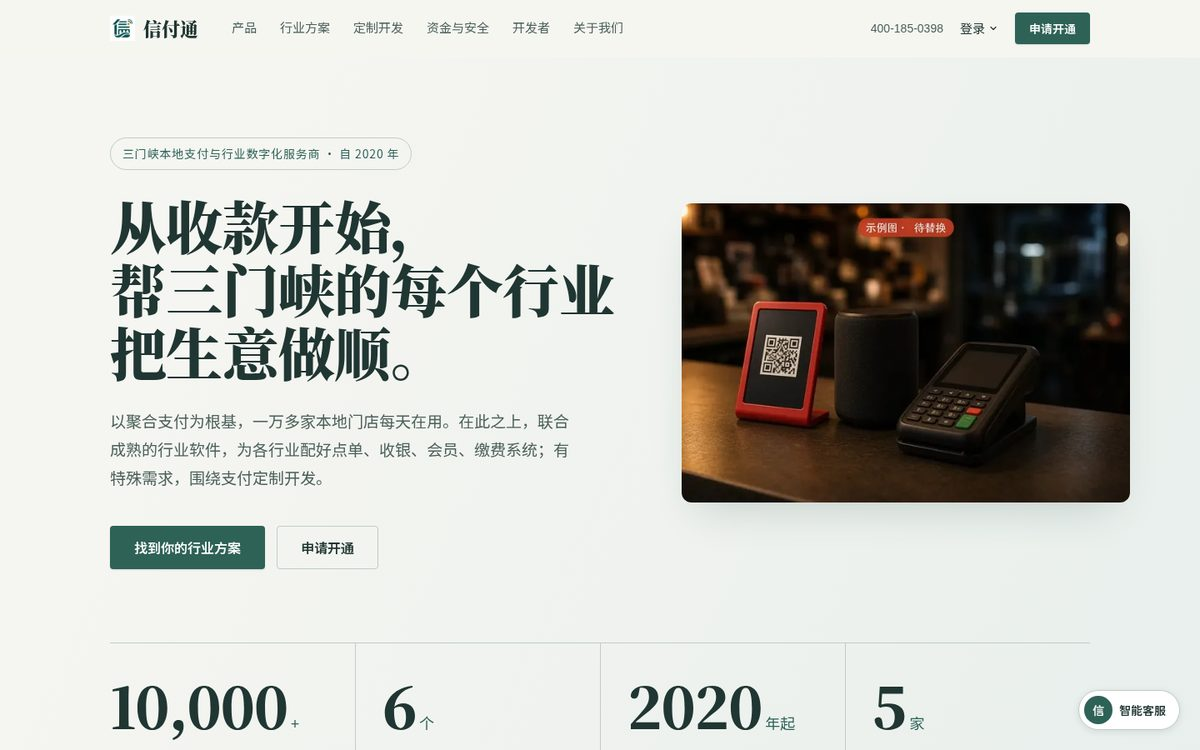
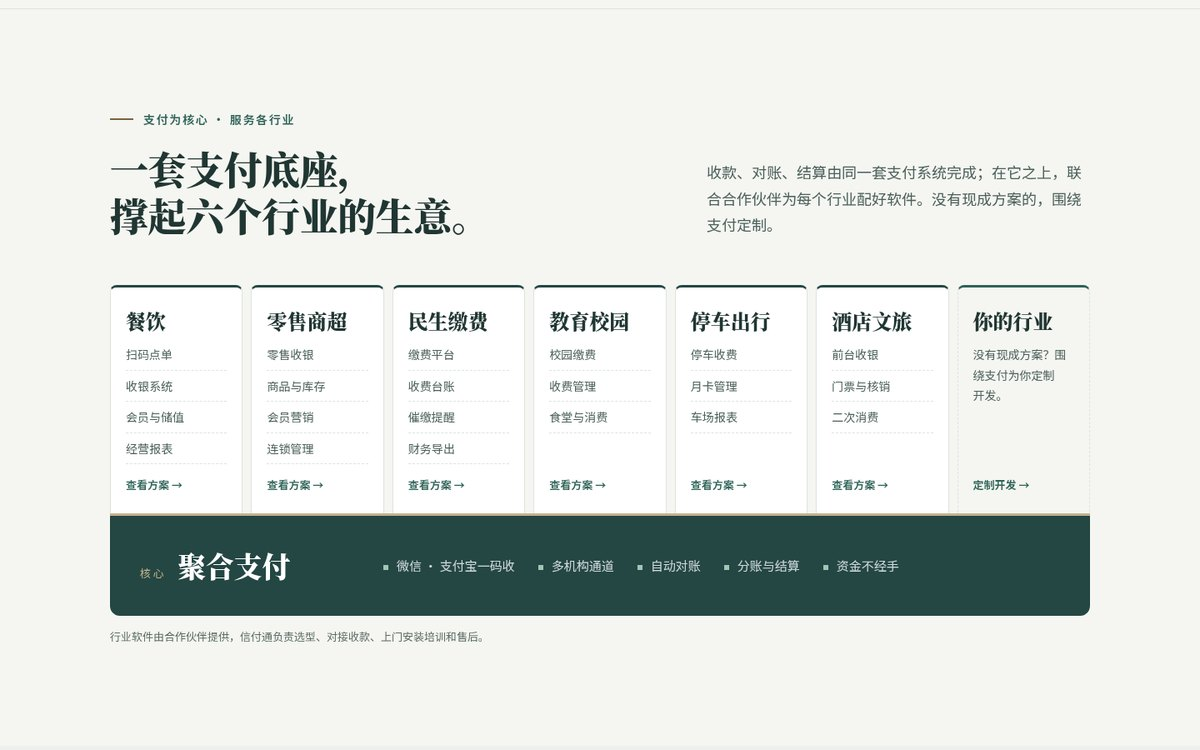
polish r1: photo slot with fallback, dedupe status, hero peek, trust legibility, header CTA, bento flow, code highlight fix, ciftopay recrop

diff --git a/site.css b/site.css
@@ -27,7 +27,7 @@
   --border-strong: rgba(255, 255, 255, .16);
   --text: #f2f4f8;
   --text-2: #a9b1c0;
-  --text-3: #6f7889;
+  --text-3: #858ea0;
   --grid-line: rgba(255, 255, 255, .045);
 
   --c1: #3be8ff;           /* 电光青 */
@@ -72,7 +72,7 @@
   --border-strong: rgba(10, 14, 30, .18);
   --text: #0a0c12;
   --text-2: #444c5c;
-  --text-3: #737b8c;
+  --text-3: #626a7b;
   --grid-line: rgba(10, 14, 30, .055);
   --c1: #0891b2;
   --c2: #6d4aff;
@@ -200,6 +200,7 @@ button { font: inherit; color: inherit; }
 .nav-link-cta { color: var(--accent); font-weight: 600; }
 
 .nav-tools { margin-left: auto; display: flex; align-items: center; gap: 8px; }
+.nav-tools .header-cta { display: none; min-height: 40px; padding: 0 16px; font-size: 13.5px; }
 .status-chip {
   display: none; align-items: center; gap: 8px;
   padding: 6px 12px; border-radius: var(--radius-pill);
@@ -244,7 +245,11 @@ button { font: inherit; color: inherit; }
     transform: none; opacity: 1; visibility: visible;
   }
   .nav-link { padding: 6px 14px; font-size: 13.5px; border-radius: var(--radius-pill); }
-  .nav-link-cta { color: var(--text); background: var(--surface-2); }
+  .nav-bar { display: grid; grid-template-columns: minmax(0, 1fr) auto minmax(0, 1fr); }
+  .nav { margin-left: 0; }
+  .nav-tools { margin-left: 0; justify-self: end; }
+  .nav-link-cta { display: none; }
+  .nav-tools .header-cta { display: inline-flex; }
   .menu-btn { display: none; }
 }
 
@@ -275,19 +280,19 @@ button { font: inherit; color: inherit; }
 
 /* ---------- Section system ---------- */
 .anchor-alias { position: absolute; }
-.section { position: relative; padding: 88px 0; }
+.section { position: relative; padding: 76px 0; }
 .section-alt { background: transparent; }
 .section + .section::before, .footer::before {
   content: ""; position: absolute; top: 0; left: 50%; width: min(var(--container), 100% - 40px); height: 1px; transform: translateX(-50%);
   background: linear-gradient(90deg, transparent, var(--border-strong) 20%, var(--border-strong) 80%, transparent);
 }
-@media (min-width: 1024px) { .section { padding: 128px 0; } }
+@media (min-width: 1024px) { .section { padding: 108px 0; } }
 
 .section-head { margin: 0 0 44px; display: grid; gap: 14px; }
 @media (min-width: 900px) {
   .section-head { grid-template-columns: minmax(0, 1fr) minmax(0, 380px); align-items: end; column-gap: 48px; margin-bottom: 60px; }
   .section-head .section-kicker { grid-column: 1 / -1; }
-  .section-head .section-desc { justify-self: end; text-align: right; }
+  .section-head .section-desc { justify-self: end; max-width: 340px; padding-bottom: 8px; }
 }
 .section-kicker {
   display: inline-flex; align-items: center; gap: 10px;
@@ -379,10 +384,39 @@ button { font: inherit; color: inherit; }
 .hero-cta .btn { flex: 1 1 100%; }
 @media (min-width: 480px) { .hero-cta .btn { flex: 0 0 auto; } .hero-lead { font-size: 17px; } }
 @media (min-width: 1024px) {
-  .hero { padding: 72px 0 120px; min-height: calc(100vh - var(--header-h)); display: flex; align-items: center; }
+  .hero { padding: 64px 0 28px; min-height: min(calc(100vh - var(--header-h)), 900px); display: flex; flex-direction: column; justify-content: center; }
   .hero > .container { width: 100%; }
   .hero-grid { grid-template-columns: minmax(0, 1.42fr) minmax(0, .78fr); gap: 64px; }
 }
+
+/* 首屏底部：代表作品速览 */
+.hero-peek-wrap { display: none; }
+@media (min-width: 1024px) {
+  .hero-peek-wrap { display: block; margin-top: 48px; }
+  .hero-peek { display: flex; align-items: center; justify-content: space-between; gap: 24px; padding-top: 20px; border-top: 1px solid var(--border); }
+}
+.scroll-cue { display: inline-flex; align-items: center; gap: 14px; font-size: 12px; letter-spacing: .1em; text-transform: uppercase; color: var(--text-3); transition: color .2s; }
+.scroll-cue:hover { color: var(--text); }
+.cue-line { position: relative; width: 1px; height: 34px; background: var(--border-strong); overflow: hidden; }
+.cue-line::after { content: ""; position: absolute; left: 0; top: -40%; width: 1px; height: 40%; background: linear-gradient(var(--c1), var(--c2)); animation: cue 2.2s var(--ease) infinite; }
+@keyframes cue { to { top: 100%; } }
+.peek-list { display: flex; gap: 12px; }
+.cue-txt { display: grid; gap: 4px; }
+.cue-txt .mono { font-size: 11.5px; letter-spacing: .12em; color: var(--accent); }
+.cue-txt > span:last-child { font-size: 13.5px; letter-spacing: 0; text-transform: none; color: var(--text-2); }
+.peek {
+  display: flex; align-items: center; gap: 14px; min-width: 280px; padding: 8px 10px 8px 8px; border-radius: 14px;
+  background: var(--surface); border: 1px solid var(--border);
+  -webkit-backdrop-filter: blur(12px); backdrop-filter: blur(12px);
+  transition: border-color .25s var(--ease), transform .25s var(--ease), background-color .25s;
+}
+.peek:hover { border-color: var(--accent-ring); transform: translateY(-2px); }
+.peek img { width: 76px; height: 48px; border-radius: 8px; object-fit: cover; object-position: left top; border: 1px solid var(--border); flex-shrink: 0; }
+.peek-txt { display: grid; gap: 3px; min-width: 0; }
+.peek-txt b { font-size: 14px; font-weight: 750; color: var(--text); line-height: 1.3; }
+.peek-txt small { display: inline-flex; align-items: center; gap: 7px; font-size: 11.5px; color: var(--text-3); }
+.peek-go { margin-left: auto; width: 30px; height: 30px; border-radius: 50%; display: grid; place-items: center; font-size: 13px; color: var(--text-2); border: 1px solid var(--border); transition: color .2s, border-color .2s; }
+.peek:hover .peek-go { color: var(--accent); border-color: var(--accent-ring); }
 
 /* 名片 */
 .profile-card {
@@ -397,37 +431,51 @@ button { font: inherit; color: inherit; }
   content: ""; position: absolute; top: -1px; left: 16%; right: 16%; height: 1px;
   background: linear-gradient(90deg, transparent, var(--c1), var(--c2), transparent); opacity: .8;
 }
-.profile-top { display: flex; align-items: center; gap: 16px; }
+.profile-top { display: flex; align-items: center; gap: 18px; }
+/* 头像：assets/avatar.jpg 存在时显示照片，否则显示占位 */
 .avatar {
-  position: relative; width: 68px; height: 68px; border-radius: 20px; flex-shrink: 0;
-  display: grid; place-items: center;
-  font-size: 30px; font-weight: 850; color: var(--text);
-  background: radial-gradient(120% 120% at 20% 0%, rgba(95,227,255,.28), transparent 55%), radial-gradient(120% 120% at 100% 100%, rgba(139,108,255,.35), transparent 55%), var(--surface-solid);
-  border: 1px solid var(--border-strong);
+  position: relative; flex-shrink: 0; width: 96px; height: 96px; border-radius: 50%; padding: 3px;
+  background: conic-gradient(from 210deg, var(--c1), var(--c2), #6aa8ff, var(--c1));
+  box-shadow: 0 0 0 6px var(--accent-soft), 0 18px 40px -16px rgba(110, 140, 255, .55);
 }
+.avatar::after { /* 在线状态点 */
+  content: ""; position: absolute; right: 5px; bottom: 5px; width: 14px; height: 14px; border-radius: 50%;
+  background: var(--ok); border: 3px solid var(--surface-solid); z-index: 2;
+}
+.avatar-fallback, .avatar-img { position: absolute; inset: 3px; width: calc(100% - 6px); height: calc(100% - 6px); border-radius: 50%; }
+.avatar-fallback {
+  display: grid; place-items: center; overflow: hidden;
+  background: radial-gradient(120% 100% at 30% 0%, rgba(95, 227, 255, .26), transparent 60%), radial-gradient(120% 120% at 100% 100%, rgba(139, 108, 255, .34), transparent 60%), var(--surface-solid);
+}
+.avatar-sil { position: absolute; left: 12%; right: 12%; bottom: -6%; width: 76%; height: auto; fill: currentColor; color: var(--text); opacity: .1; }
+.avatar-initial { position: relative; font-size: 36px; font-weight: 850; line-height: 1; color: var(--text); letter-spacing: 0; }
+.avatar-img { object-fit: cover; object-position: center 30%; background: var(--surface-solid); }
 .profile-id { min-width: 0; }
-.profile-name { font-size: 20px; font-weight: 800; line-height: 1.3; letter-spacing: -.01em; }
-.profile-en { font-family: var(--font-mono); font-size: 11.5px; font-weight: 500; color: var(--text-3); margin-left: 6px; letter-spacing: .04em; }
-.profile-role { font-size: 13.5px; color: var(--text-2); }
-.profile-loc { font-size: 12.5px; color: var(--text-3); }
-.profile-loc i { color: var(--accent); margin-right: 2px; }
+.profile-name { font-size: 22px; font-weight: 850; line-height: 1.3; letter-spacing: -.015em; }
+.profile-en { display: block; font-family: var(--font-mono); font-size: 12px; font-weight: 500; color: var(--text-3); letter-spacing: .06em; line-height: 1.5; }
+.profile-role { margin-top: 6px; font-size: 14px; font-weight: 600; color: var(--text-2); }
+.profile-loc { margin-top: 2px; font-size: 13px; color: var(--text-3); }
+.profile-loc i { color: var(--accent); margin-right: 3px; }
 
 .trust-list {
-  margin-top: 18px; display: grid; grid-template-columns: repeat(2, minmax(0, 1fr)); gap: 1px;
+  margin-top: 20px; display: grid; grid-template-columns: repeat(3, minmax(0, 1fr)); gap: 1px;
   border-radius: var(--radius); overflow: hidden; background: var(--border); border: 1px solid var(--border);
 }
-.trust-list li { display: flex; flex-direction: column; gap: 2px; padding: 14px 14px 13px; background: var(--surface-solid); min-width: 0; }
+.trust-list li { display: flex; flex-direction: column; gap: 6px; padding: 14px 14px 15px; background: var(--surface-solid); min-width: 0; }
 :root:not([data-theme="light"]) .trust-list li { background: #0b0d12; }
 .trust-val {
-  font-family: var(--font-mono); font-weight: 700; font-size: 30px; line-height: 1.1; letter-spacing: -.04em;
+  font-family: var(--font-mono); font-weight: 700; font-size: 28px; line-height: 1.1; letter-spacing: -.04em;
   background: var(--accent-grad); -webkit-background-clip: text; background-clip: text; color: transparent;
-  font-variant-numeric: tabular-nums;
+  font-variant-numeric: tabular-nums; white-space: nowrap;
 }
-.trust-val small { font-family: var(--font-sans); font-size: 14px; font-weight: 700; letter-spacing: 0; margin-left: 3px; }
-.trust-list li:nth-child(n+3) .trust-val { font-family: var(--font-sans); font-size: 22px; letter-spacing: -.02em; line-height: 1.35; }
-.trust-lbl { min-width: 0; font-size: 12.5px; line-height: 1.5; color: var(--text-3); }
+.trust-val small { font-family: var(--font-sans); font-size: 13px; font-weight: 700; letter-spacing: 0; margin-left: 3px; }
+.trust-list li:nth-child(2) .trust-val, .trust-list li:nth-child(4) .trust-val { font-family: var(--font-sans); font-size: 22px; letter-spacing: -.02em; line-height: 1.27; padding-top: 1px; }
+.trust-lbl { min-width: 0; font-size: 13px; line-height: 1.5; color: var(--text-2); text-wrap: balance; }
+.trust-list li:nth-child(4) { grid-column: 1 / -1; flex-direction: row; align-items: center; gap: 16px; }
+.trust-list li:nth-child(4) .trust-val { flex-shrink: 0; }
+.trust-list li:nth-child(4) .trust-lbl { padding-left: 16px; border-left: 1px solid var(--border); }
 
-.profile-contact { margin-top: 14px; display: grid; gap: 2px; }
+.profile-contact { margin-top: 16px; display: grid; gap: 2px; }
 .profile-contact li { display: flex; align-items: center; justify-content: space-between; gap: 10px; min-width: 0; min-height: 40px; padding: 0 2px 0 6px; border-radius: 10px; transition: background-color .2s; }
 .profile-contact li:hover { background: var(--surface-2); }
 .profile-contact a, .contact-wx { min-width: 0; overflow: hidden; text-overflow: ellipsis; white-space: nowrap; font-weight: 600; font-size: 14px; color: var(--text); }
@@ -561,6 +609,30 @@ button { font: inherit; color: inherit; }
     radial-gradient(70% 120% at 100% 100%, rgba(139,108,255,.1), transparent 60%) padding-box,
     linear-gradient(var(--bg-alt), var(--bg-alt)) padding-box,
     linear-gradient(150deg, var(--border-strong), var(--border) 40%, rgba(139,108,255,.4)) border-box; }
+/* 首个 bento：支付链路示意（复述上面的文字，纯装饰） */
+.svc-flow { display: none; }
+@media (min-width: 1100px) {
+  .svc-flow { position: relative; z-index: 1; display: grid; grid-template-columns: repeat(4, minmax(0, 1fr)); gap: 10px; margin-top: 30px; counter-reset: f; }
+  .svc-flow li {
+    position: relative; display: flex; flex-direction: column; gap: 8px; padding: 14px 12px 13px; border-radius: 14px;
+    font-size: 13px; font-weight: 650; line-height: 1.4; color: var(--text);
+    background: var(--surface); border: 1px solid var(--border);
+    -webkit-backdrop-filter: blur(8px); backdrop-filter: blur(8px);
+  }
+  .svc-flow li .mono { font-size: 11px; font-weight: 600; color: var(--accent); letter-spacing: .08em; }
+  .svc-flow li + li::before { /* 连接线 */
+    content: ""; position: absolute; left: -11px; top: 50%; width: 10px; height: 1px;
+    background: linear-gradient(90deg, var(--c1), var(--c2));
+  }
+  .svc-flow li:last-child { border-color: rgba(139, 108, 255, .4); box-shadow: 0 0 30px -12px rgba(139, 108, 255, .6); }
+}
+@media (max-width: 719px) {
+  .svc { flex-direction: row; align-items: flex-start; gap: 16px; padding: 20px 18px; }
+  .svc-icon { width: 40px; height: 40px; font-size: 15px; border-radius: 12px; }
+  .svc-title { font-size: 17px; }
+  .svc-proof { padding-top: 12px; }
+  .svc:nth-child(1)::after { display: none; }
+}
 @media (min-width: 720px) {
   .svc-list { grid-template-columns: repeat(2, minmax(0, 1fr)); gap: 14px; }
   .svc:nth-child(1) { grid-column: span 2; }
@@ -737,8 +809,8 @@ button { font: inherit; color: inherit; }
 .remote-tag { display: inline-block; margin-left: 6px; padding: 0 8px; border-radius: var(--radius-pill); font-size: 11px; font-weight: 650; line-height: 1.8; vertical-align: 1px; color: var(--ok); background: var(--ok-soft); }
 
 /* ---------- Contact / Footer ---------- */
-.footer { position: relative; padding: 88px 0 36px; }
-@media (min-width: 1024px) { .footer { padding: 128px 0 40px; } }
+.footer { position: relative; padding: 76px 0 32px; }
+@media (min-width: 1024px) { .footer { padding: 108px 0 40px; } }
 .contact {
   position: relative; overflow: hidden; isolation: isolate;
   display: grid; gap: 32px; align-items: center;
@@ -784,7 +856,9 @@ button { font: inherit; color: inherit; }
   display: flex; flex-direction: column; gap: 6px;
   font-family: var(--font-mono); font-size: 12px; color: var(--text-3);
 }
-@media (min-width: 768px) { .footer-bottom { flex-direction: row; justify-content: space-between; } }
+.to-top { color: var(--text-2); transition: color .2s; }
+.to-top:hover { color: var(--accent); }
+@media (min-width: 768px) { .footer-bottom { flex-direction: row; justify-content: space-between; align-items: center; } .footer-bottom > div:nth-child(2) { margin-left: auto; margin-right: 28px; } }
 
 /* ---------- Toast ---------- */
 .toast {
@@ -812,8 +886,12 @@ button { font: inherit; color: inherit; }
   .wx-note { display: none; }
   .section-title { letter-spacing: -.03em; }
   .profile-card { padding: 18px; }
-  .trust-val { font-size: 26px; }
-  .trust-list li:nth-child(n+3) .trust-val { font-size: 19px; }
+  .trust-val { font-size: 25px; }
+  .trust-list li { padding: 13px 11px 14px; }
+  .trust-list li:nth-child(2) .trust-val, .trust-list li:nth-child(4) .trust-val { font-size: 19px; }
+  .avatar { width: 84px; height: 84px; }
+  .avatar-initial { font-size: 32px; }
+  .profile-top { gap: 16px; }
   .work-body { padding: 22px 18px 24px; }
   .svc, .card { padding: 22px 20px; }
   .topology { padding: 10px; }
@@ -831,4 +909,10 @@ button { font: inherit; color: inherit; }
   .site-header, .terminal-actions, .terminal-input-row, .toast, .hero-bg { display: none !important; }
   body::after { display: none; }
   .js .reveal, .js .hero-copy.reveal > * { opacity: 1; transform: none; filter: none; }
+}
+
+/* 标题断行更均衡 */
+.section-title, .contact-title, .work-title, .svc-title, .card-title, .profile-name { text-wrap: balance; }
+@media (max-width: 480px) {
+  .contact-row .btn { font-size: 15px; padding-left: 16px; padding-right: 16px; }
 }

diff --git a/index.html b/index.html
@@ -49,9 +49,7 @@
       </nav>
 
       <div class="nav-tools">
-        <a href="#contact" class="status-chip" title="三门峡 · 全国远程">
-          <span class="pulse" aria-hidden="true"></span>开放远程工作与项目合作
-        </a>
+        <a href="#contact" class="btn btn-primary btn-sm header-cta">联系我 <span class="arrow" aria-hidden="true">→</span></a>
         <button class="icon-btn" id="theme-toggle" type="button" aria-label="切换深色 / 浅色模式">
           <i class="fa-solid fa-moon icon-moon" aria-hidden="true"></i>
           <i class="fa-solid fa-sun icon-sun" aria-hidden="true"></i>
@@ -97,7 +95,11 @@
         <!-- 名片 / 头像区 -->
         <aside class="profile-card reveal" aria-label="个人名片">
           <div class="profile-top">
-            <div class="avatar" role="img" aria-label="史晓河 头像">史</div>
+            <div class="avatar">
+              <span class="avatar-fallback" aria-hidden="true"><svg class="avatar-sil" viewBox="0 0 64 64"><circle cx="32" cy="24" r="11"/><path d="M10 60c2-12 11-19 22-19s20 7 22 19z"/></svg><span class="avatar-initial">史</span></span>
+              <!-- 个人照片：把照片放到 assets/avatar.jpg 即可（建议 ≥ 480×480 正方形）；文件不存在时自动显示上面的占位 -->
+              <img class="avatar-img" src="./assets/avatar.jpg" width="480" height="480" alt="史晓河 照片" decoding="async" onerror="this.remove()">
+            </div>
             <div class="profile-id">
               <div class="profile-name">史晓河 <span class="profile-en">Shi Xiaohe</span></div>
               <div class="profile-role">技术架构师 · 信言科技</div>
@@ -118,6 +120,24 @@
           </ul>
         </aside>
       </div>
+
+      <div class="container hero-peek-wrap">
+        <nav class="hero-peek reveal" aria-label="代表作品速览">
+          <a class="scroll-cue" href="#work"><span class="cue-line" aria-hidden="true"></span><span class="cue-txt"><span class="mono">01 / 代表作品</span><span>两个正在线上运行的产品，可以直接打开看</span></span></a>
+          <div class="peek-list">
+            <a class="peek" href="#work-ciftopay">
+              <img src="./assets/ciftopay.jpg" width="1200" height="750" alt="" decoding="async">
+              <span class="peek-txt"><b>信付通 CiftoPay</b><small class="mono"><span class="pulse" aria-hidden="true"></span>ciftopay.com</small></span>
+              <span class="peek-go" aria-hidden="true">↓</span>
+            </a>
+            <a class="peek" href="#work-ecommica">
+              <img src="./assets/deals.jpg" width="1200" height="750" alt="" decoding="async">
+              <span class="peek-txt"><b>Ecommica</b><small class="mono"><span class="pulse" aria-hidden="true"></span>deals.ecommica.com</small></span>
+              <span class="peek-go" aria-hidden="true">↓</span>
+            </a>
+          </div>
+        </nav>
+      </div>
     </section>
 
     <!-- 2. 代表作品 -->
@@ -131,11 +151,11 @@
         </header>
 
         <div class="works">
-          <article class="work reveal">
+          <article class="work reveal" id="work-ciftopay">
             <a class="work-shot" href="https://ciftopay.com/" target="_blank" rel="noopener" aria-label="打开 信付通 官网">
               <span class="browser">
                 <span class="browser-bar" aria-hidden="true"><span class="browser-dots"><i></i><i></i><i></i></span><span class="browser-url mono"><i class="fa-solid fa-lock"></i> ciftopay.com</span><span class="browser-go">↗</span></span>
-                <img src="./assets/ciftopay.jpg" width="1200" height="750" loading="lazy" decoding="async" alt="信付通 ciftopay.com 首页截图">
+                <img src="./assets/ciftopay.jpg" width="1200" height="750" loading="lazy" decoding="async" alt="信付通 ciftopay.com 行业方案页截图">
               </span>
             </a>
             <div class="work-body">
@@ -150,7 +170,7 @@
             </div>
           </article>
 
-          <article class="work reveal">
+          <article class="work reveal" id="work-ecommica">
             <a class="work-shot" href="https://deals.ecommica.com/" target="_blank" rel="noopener" aria-label="打开 Ecommica 网站">
               <span class="browser">
                 <span class="browser-bar" aria-hidden="true"><span class="browser-dots"><i></i><i></i><i></i></span><span class="browser-url mono"><i class="fa-solid fa-lock"></i> deals.ecommica.com</span><span class="browser-go">↗</span></span>
@@ -188,6 +208,12 @@
             <div>
               <h3 class="svc-title">支付 / 收单 / 清结算系统</h3>
               <p class="svc-text">聚合支付接入、代理商多级分润、交易对账与复式记账。</p>
+              <ol class="svc-flow" aria-hidden="true">
+                <li><span class="mono">01</span>聚合支付接入</li>
+                <li><span class="mono">02</span>代理商多级分润</li>
+                <li><span class="mono">03</span>交易对账</li>
+                <li><span class="mono">04</span>复式记账</li>
+              </ol>
               <p class="svc-proof">做过：信付通、收单平台矩阵、考拉畅付</p>
             </div>
           </li>
@@ -474,6 +500,7 @@ public class ReconciliationEngine {
       <div class="footer-bottom">
         <div>© 2026 史晓河 (Shi Xiaohe)</div>
         <div>技术架构师 · 河南信言电子科技有限公司</div>
+        <a class="to-top" href="#top">回到顶部 <span aria-hidden="true">↑</span></a>
       </div>
     </div>
   </footer>

diff --git a/main.js b/main.js
@@ -289,10 +289,11 @@
       var ci = esc.indexOf('//');
       var codePart = ci >= 0 ? esc.slice(0, ci) : esc;
       var comment = ci >= 0 ? '<span class="tk-c">' + esc.slice(ci) + '</span>' : '';
-      codePart = codePart
-        .replace(/("[^"]*")/g, '<span class="tk-s">$1</span>')
-        .replace(/(@\w+)/g, '<span class="tk-a">$1</span>')
-        .replace(/\b(public|class|void|byte|private|static|return|new)\b/g, '<span class="tk-k">$1</span>');
+      // 单次扫描，避免关键字替换误伤已插入的 <span class="…">
+      codePart = codePart.replace(/(&quot;.*?&quot;|"[^"]*")|(@\w+)|\b(public|class|void|byte|private|static|return|new)\b/g, function (all, str, ann, kw) {
+        var cls = str ? 'tk-s' : (ann ? 'tk-a' : 'tk-k');
+        return '<span class="' + cls + '">' + all + '</span>';
+      });
       return codePart + comment;
     }).join('\n');
   }
